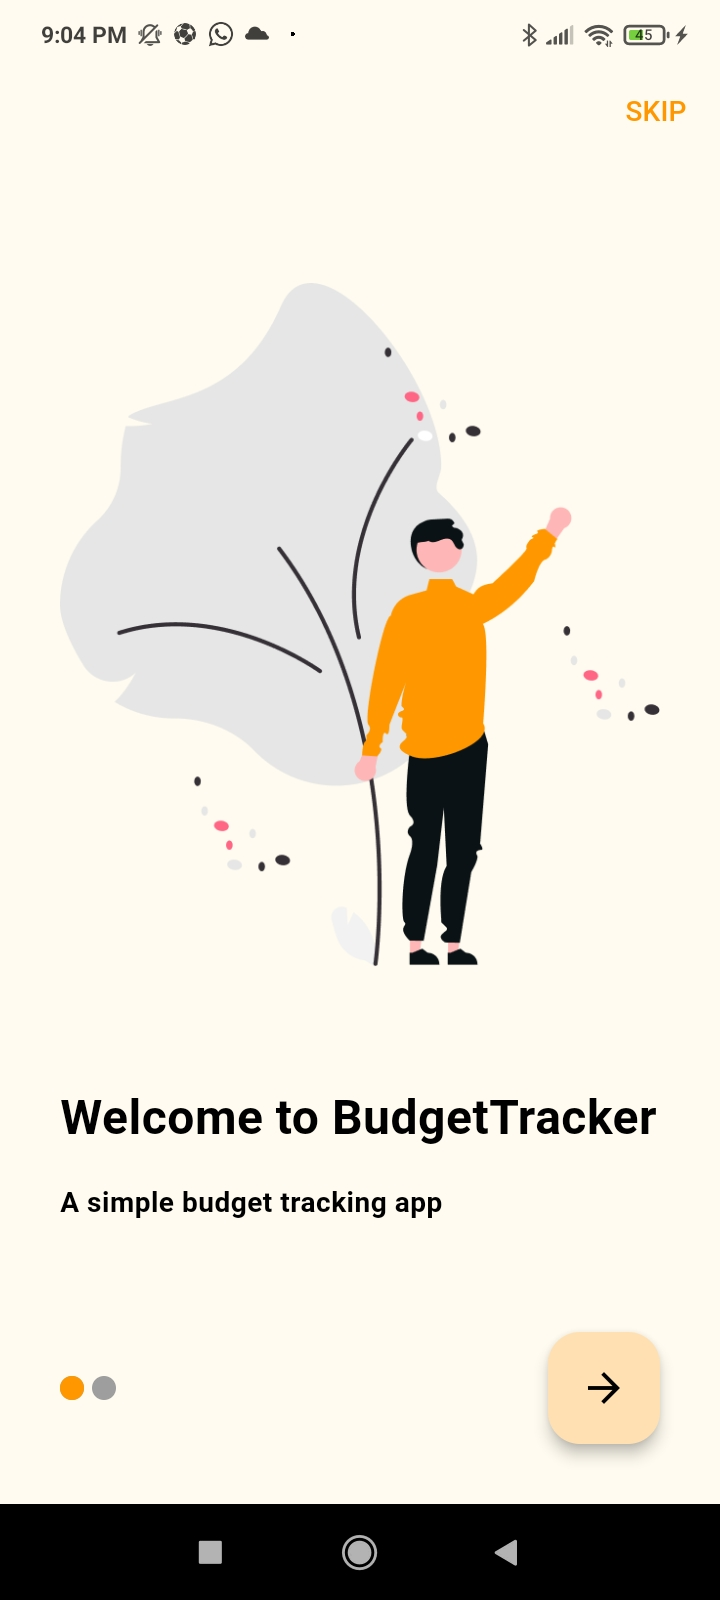
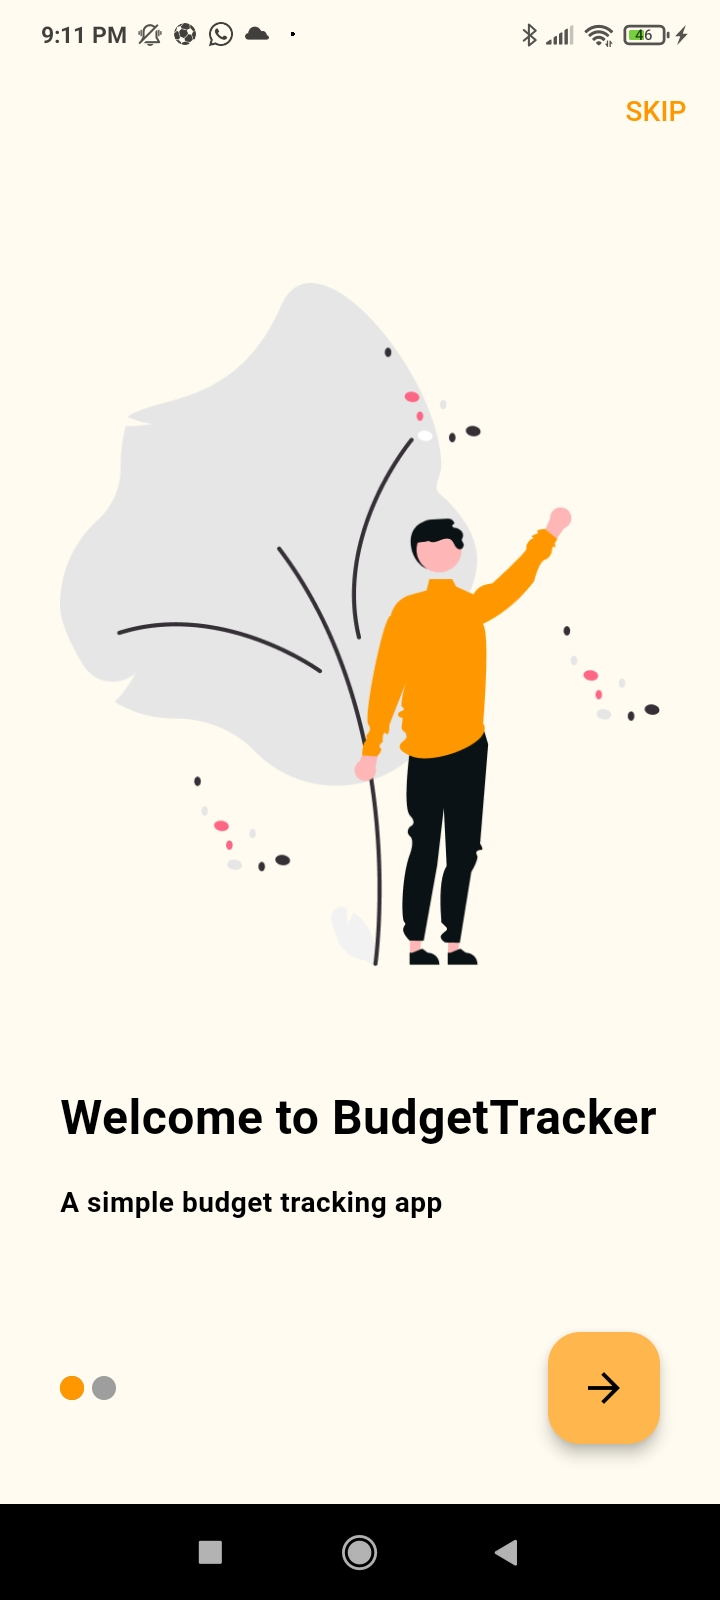
ss update

Changed region(s): [[0.7639, 0.8125, 0.9167, 0.9062], [0.0917, 0.0, 0.1222, 0.0312]]

diff --git a/lib/screens/on_boarding_page.dart b/lib/screens/on_boarding_page.dart
@@ -58,6 +58,7 @@ class _OnBoardingScreenState extends State<OnBoardingScreen> {
             child: const Text(
               "SKIP",
             ),
+            
           ),
         ],
       ),
@@ -115,6 +116,7 @@ class _OnBoardingScreenState extends State<OnBoardingScreen> {
                     }
                   },
                   child: const Icon(Icons.arrow_forward_outlined),
+                  backgroundColor: colorScheme.inversePrimary,
                 )
               ],
             ),
